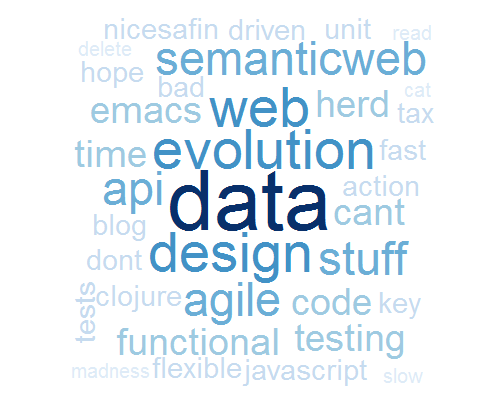
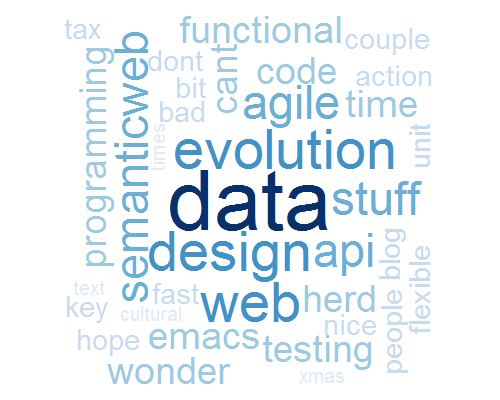
add couple of old blog posts

Changed region(s): [[0.12, 0.03, 0.87, 0.96]]

diff --git a/_includes/cloud.html b/_includes/cloud.html
@@ -1,1 +1,1 @@
- &nbsp;&nbsp;<a href="/tags/R.html" title="Posts tagged R" style="font-size: 24.6px; line-height:24.6px">R</a> &nbsp;&nbsp;<a href="/tags/SQL.html" title="Posts tagged SQL" style="font-size: 17.4px; line-height:17.4px">SQL</a> &nbsp;&nbsp;<a href="/tags/abtesting.html" title="Posts tagged abtesting" style="font-size: 17.4px; line-height:17.4px">abtesting</a> &nbsp;&nbsp;<a href="/tags/automation.html" title="Posts tagged automation" style="font-size: 25.799999999999997px; line-height:25.799999999999997px">automation</a> &nbsp;&nbsp;<a href="/tags/clojure.html" title="Posts tagged clojure" style="font-size: 19.8px; line-height:19.8px">clojure</a> &nbsp;&nbsp;<a href="/tags/dashboard.html" title="Posts tagged dashboard" style="font-size: 16.2px; line-height:16.2px">dashboard</a> &nbsp;&nbsp;<a href="/tags/data.html" title="Posts tagged data" style="font-size: 28.2px; line-height:28.2px">data</a> &nbsp;&nbsp;<a href="/tags/emacs.html" title="Posts tagged emacs" style="font-size: 18.6px; line-height:18.6px">emacs</a> &nbsp;&nbsp;<a href="/tags/health.html" title="Posts tagged health" style="font-size: 16.2px; line-height:16.2px">health</a> &nbsp;&nbsp;<a href="/tags/idea.html" title="Posts tagged idea" style="font-size: 19.8px; line-height:19.8px">idea</a> &nbsp;&nbsp;<a href="/tags/javascript.html" title="Posts tagged javascript" style="font-size: 18.6px; line-height:18.6px">javascript</a> &nbsp;&nbsp;<a href="/tags/keyboard.html" title="Posts tagged keyboard" style="font-size: 16.2px; line-height:16.2px">keyboard</a> &nbsp;&nbsp;<a href="/tags/machinelearning.html" title="Posts tagged machinelearning" style="font-size: 21.0px; line-height:21.0px">machinelearning</a> &nbsp;&nbsp;<a href="/tags/montecarlo.html" title="Posts tagged montecarlo" style="font-size: 17.4px; line-height:17.4px">montecarlo</a> &nbsp;&nbsp;<a href="/tags/productivity.html" title="Posts tagged productivity" style="font-size: 18.6px; line-height:18.6px">productivity</a> &nbsp;&nbsp;<a href="/tags/ruby.html" title="Posts tagged ruby" style="font-size: 24.6px; line-height:24.6px">ruby</a> &nbsp;&nbsp;<a href="/tags/semanticweb.html" title="Posts tagged semanticweb" style="font-size: 17.4px; line-height:17.4px">semanticweb</a> &nbsp;&nbsp;<a href="/tags/statistics.html" title="Posts tagged statistics" style="font-size: 29.4px; line-height:29.4px">statistics</a> &nbsp;&nbsp;<a href="/tags/tools.html" title="Posts tagged tools" style="font-size: 16.2px; line-height:16.2px">tools</a> &nbsp;&nbsp;<a href="/tags/visualization.html" title="Posts tagged visualization" style="font-size: 23.4px; line-height:23.4px">visualization</a> &nbsp;&nbsp;<a href="/tags/webcrawler.html" title="Posts tagged webcrawler" style="font-size: 17.4px; line-height:17.4px">webcrawler</a>
+ &nbsp;&nbsp;<a href="/tags/R.html" title="Posts tagged R" style="font-size: 24.6px; line-height:24.6px">R</a> &nbsp;&nbsp;<a href="/tags/SQL.html" title="Posts tagged SQL" style="font-size: 17.4px; line-height:17.4px">SQL</a> &nbsp;&nbsp;<a href="/tags/abtesting.html" title="Posts tagged abtesting" style="font-size: 17.4px; line-height:17.4px">abtesting</a> &nbsp;&nbsp;<a href="/tags/automation.html" title="Posts tagged automation" style="font-size: 28.2px; line-height:28.2px">automation</a> &nbsp;&nbsp;<a href="/tags/clojure.html" title="Posts tagged clojure" style="font-size: 19.8px; line-height:19.8px">clojure</a> &nbsp;&nbsp;<a href="/tags/dashboard.html" title="Posts tagged dashboard" style="font-size: 16.2px; line-height:16.2px">dashboard</a> &nbsp;&nbsp;<a href="/tags/data.html" title="Posts tagged data" style="font-size: 28.2px; line-height:28.2px">data</a> &nbsp;&nbsp;<a href="/tags/emacs.html" title="Posts tagged emacs" style="font-size: 18.6px; line-height:18.6px">emacs</a> &nbsp;&nbsp;<a href="/tags/health.html" title="Posts tagged health" style="font-size: 16.2px; line-height:16.2px">health</a> &nbsp;&nbsp;<a href="/tags/idea.html" title="Posts tagged idea" style="font-size: 19.8px; line-height:19.8px">idea</a> &nbsp;&nbsp;<a href="/tags/javascript.html" title="Posts tagged javascript" style="font-size: 18.6px; line-height:18.6px">javascript</a> &nbsp;&nbsp;<a href="/tags/keyboard.html" title="Posts tagged keyboard" style="font-size: 16.2px; line-height:16.2px">keyboard</a> &nbsp;&nbsp;<a href="/tags/machinelearning.html" title="Posts tagged machinelearning" style="font-size: 21.0px; line-height:21.0px">machinelearning</a> &nbsp;&nbsp;<a href="/tags/montecarlo.html" title="Posts tagged montecarlo" style="font-size: 17.4px; line-height:17.4px">montecarlo</a> &nbsp;&nbsp;<a href="/tags/productivity.html" title="Posts tagged productivity" style="font-size: 18.6px; line-height:18.6px">productivity</a> &nbsp;&nbsp;<a href="/tags/ruby.html" title="Posts tagged ruby" style="font-size: 27.0px; line-height:27.0px">ruby</a> &nbsp;&nbsp;<a href="/tags/semanticweb.html" title="Posts tagged semanticweb" style="font-size: 17.4px; line-height:17.4px">semanticweb</a> &nbsp;&nbsp;<a href="/tags/statistics.html" title="Posts tagged statistics" style="font-size: 29.4px; line-height:29.4px">statistics</a> &nbsp;&nbsp;<a href="/tags/tools.html" title="Posts tagged tools" style="font-size: 16.2px; line-height:16.2px">tools</a> &nbsp;&nbsp;<a href="/tags/visualization.html" title="Posts tagged visualization" style="font-size: 23.4px; line-height:23.4px">visualization</a> &nbsp;&nbsp;<a href="/tags/webcrawler.html" title="Posts tagged webcrawler" style="font-size: 17.4px; line-height:17.4px">webcrawler</a>

diff --git a/tags/automation.html b/tags/automation.html
@@ -5,6 +5,16 @@ title: Tag "automation"
 
 <div id="category-list"><ul class="posts">
         <li>
+          <a href="/2008/06/27/ebay-misspell-search.html">ebay misspells search</a>
+          <span id="post-date" style="font-size: 90%">27 Jun 2008</span>
+       </li>
+
+        <li>
+          <a href="/2008/07/31/ebay-stock-price-alert.html">ebay Stock price Alert</a>
+          <span id="post-date" style="font-size: 90%">31 Jul 2008</span>
+       </li>
+
+        <li>
           <a href="/2008/11/25/ruby-foto-organizer.html">Photo organizer</a>
           <span id="post-date" style="font-size: 90%">25 Nov 2008</span>
        </li>

diff --git a/tags/ruby.html b/tags/ruby.html
@@ -10,6 +10,16 @@ title: Tag "ruby"
        </li>
 
         <li>
+          <a href="/2008/06/27/ebay-misspell-search.html">ebay misspells search</a>
+          <span id="post-date" style="font-size: 90%">27 Jun 2008</span>
+       </li>
+
+        <li>
+          <a href="/2008/07/31/ebay-stock-price-alert.html">ebay Stock price Alert</a>
+          <span id="post-date" style="font-size: 90%">31 Jul 2008</span>
+       </li>
+
+        <li>
           <a href="/2008/11/25/ruby-foto-organizer.html">Photo organizer</a>
           <span id="post-date" style="font-size: 90%">25 Nov 2008</span>
        </li>

diff --git a/_posts/2008-06-27-ebay-misspell-search.md b/_posts/2008-06-27-ebay-misspell-search.md
@@ -1,0 +1,154 @@
+--- 
+layout: post
+title: ebay misspells search
+category: code
+tags:
+  - automation
+  - ruby
+intro: "a script that given an ebay search term, creates misspells alternatives and then executes an (ebay)search. becuase sometimes great bargains can be found from misspells items"
+---
+
+A small ruby script that does searches in ebay. Is able to:
+
+ - introducing some misspells in order to find those misspelled items that might be a great bargain(because nobody else is able to find them)
+ - abble to search in more than one ebay store.
+
+Prints out to console the search results. Of course because is in ruby, is easy to modify and play around :)
+
+Quick and dirty pulled together, but posting here in case someone else finds it useful.
+
+### Use like so:
+
+for multiple keyword search:
+
+	> ruby ebayfind.rb "Ibanez guitar"
+
+for single keyword search:
+
+	> ruby ebayfind.rb Ibanez
+
+## Code:
+
+	require 'net/http'
+	require 'rexml/document'
+	require 'active_support'
+
+
+	class Misspell
+
+	 def self.a(a_text="word", options=["skip_letter", "double_letters",
+	   "reverse_letters","skip_spaces","missed_key","inserted_key" ])
+
+	    ## Sets up the params    params = Hash.new
+	   params["user_input"] = a_text
+	   options.each do |opt|
+	     params[opt] = opt
+	   end
+
+	    #executes a call    
+	    res = Net::HTTP.post_form(URI.parse('http://tools.seobook.com/spelling/keywords-typos.cgi'), params)
+
+	    #cleans and formats results    
+	    res.body.gsub("\n", ',').scan(/<textarea rows[^>]*(.*)<\/textarea>/).flatten.to_s.gsub(">", "").split(',')
+	 end
+	end
+
+
+
+	if ARGV.length == 0
+	 puts "#{$0}: You must enter at least one argument."
+	 exit
+	end
+
+	search_str = [ARGV[0]]
+
+	puts "Finding: #{search_str}"
+	output = ""
+
+	puts "Creating the misspells..."
+	search_str << Misspell.a(search_str, ["skip_letter", "double_letters", "reverse_letters","skip_spaces","missed_key","inserted_key" ])
+	search_str.flatten!
+	puts "Search item with added misspells: #{search_str.join(",")}"
+
+	#ebay_stores = {"1"=>"US", "3"=>"GB", "77"=>"DE", "71"=>"FR", "186"=>"ES", "146"=>"NL"}
+	ebay_stores = {"3"=>"GB", "77"=>"DE", "71"=>"FR", "186"=>"ES", "146"=>"NL"}
+
+	#Iterate through each Ebay 
+	ebay_stores.each_key do |siteid|
+
+	  # Iterate through each  
+	  search_str.each do |query_string|
+
+	    # Put together an eBay parameter string    
+	    ebay_params = {
+	     'callname' =>'FindItemsAdvanced',
+	     'appid'                       =>'TODO:_YOUR_OWN_EBAY_API_ID',
+	     'version'                     =>'553',
+	     'responseencoding'            =>'XML',
+	     'siteid'                      =>siteid,
+	     'MessageID                   '=>'',
+	     'BidCountMax                 '=>'',
+	     'BidCountMin                 '=>'',
+	     'CategoryHistogramMaxChildren'=>'',
+	     'CategoryHistogramMaxParents '=>'',
+	     'CategoryID                  '=>'',
+	     'CharityID                   '=>'',
+	     'Condition                   '=>'',
+	     'Currency                    '=>'',
+	     'DescriptionSearch           '=>'',
+	     'EndTimeFrom                 '=>'',
+	     'EndTimeTo                   '=>'',
+	     'ExcludeFlag                 '=>'',
+	     'FeedbackScoreMax            '=>'',
+	     'FeedbackScoreMin            '=>'',
+	     'GroupMaxEntries             '=>'',
+	     'GroupsMax                   '=>'',
+	     'IncludeSelector             '=>'',
+	     'ItemsAvailableTo            '=>'',
+	     'ItemsLocatedIn              '=>'',
+	     'ItemSort                    '=>'',
+	     'ItemType                    '=>'AllItemTypes',
+	     'MaxDistance                 '=>'',
+	     'MaxEntries                  '=>'',
+	     'ModTimeFrom                 '=>'',
+	     'PageNumber                  '=>'',
+	     'PaymentMethod               '=>'PayPal',
+	     'PostalCode                  '=>'',
+	     'PreferredLocation           '=>'',
+	     'PriceMax                    '=>'',
+	     'PriceMin                    '=>'',
+	     'ProductID                   '=>'',
+	     'Quantity                    '=>'',
+	     'QuantityOperator            '=>'',
+	     'QueryKeywords               '=> (query_string.gsub(' ', '%20')),
+	     'SearchFlag                  '=>'',
+	     'SellerBusinessType          '=>'',
+	     'SellerID                    '=>'',
+	     'SellerIDExclude             '=>'',
+	     'SortOrder                   '=>'',
+	     'StoreName                   '=>'',
+	     'StoreSearch                 '=>''
+	   }.map { |key,value| "#{key.strip}=#{value}" unless value.empty? }.join("&").squeeze('&')
+
+	    # Ask eBay what it knows about our query_string    
+	    ebay_response = Net::HTTP.get_response('open.api.ebay.com', '/shopping?' << ebay_params)
+
+	    xml = REXML::Document.new(ebay_response.body)
+
+	    # Get basic information    
+	    response3 =  Hash.from_xml(xml.to_s)
+
+	   xml.root.elements.each("/FindItemsAdvancedResponse/SearchResult/ItemArray/Item") do |element|
+	     item =  Hash.from_xml(element.to_s)
+	     puts ""
+	     puts ">> Searching for: #{query_string}, in #{bay_stores[siteid]}, got #{response3["FindItemsAdvancedResponse"]["TotalItems"]} results"
+	     puts item['Item']['Title']
+	     puts item['Item']['EndTime']
+	     puts item['Item']['ConvertedCurrentPrice']
+	     puts item['Item']['GalleryURL']
+	     puts item['Item']['ListingType']
+	     puts item['Item']['Condition']
+	     puts item['Item']['ViewItemURLForNaturalSearch']
+	   end
+	 end
+	end

diff --git a/_posts/2008-07-31-ebay-stock-price-alert.md b/_posts/2008-07-31-ebay-stock-price-alert.md
@@ -1,0 +1,69 @@
+--- 
+layout: post
+title: ebay Stock price Alert
+category: code
+tags:
+  - automation
+  - ruby
+intro: "Waiting for a stock price to rise to a certain value to sell it? or waiting for the price to drop to a certain value to buy it? But don't want to be checking it every day? Here's a little automation that raises alerts to email inbox."
+---
+
+Waiting for a stock price to rise to a certain value to sell it? or waiting for the price to drop to a certain value to buy it? But don't want to be checking it every day? Here's a little automation that raises alerts to email inbox.
+
+This script will send you an email when stock price is outside the defined thresholds.
+
+Set your own thresholds changing the "low" & "high" values.
+Set your preferred stock symbol changing "EBAY" to "GOOGLE" for example. Is easeally extendable to support several stock symbols. I can post a second script if there's enough demand.
+
+To set it up running every day, use windows Task Scheduler or CRON for linux and mac machines.
+
+
+## Code:
+
+Requires the ruby mailfactory gem, "gem install mailfactory".
+
+	 require 'net/http'
+	 require 'net/smtp'
+	 require 'mailfactory'
+
+	 def get_stock_quote(symbol)
+
+	    host = "finance.google.com"
+	    link = "/finance?q="+ symbol.upcase
+
+	    begin
+
+	      # Create a new HTTP connection
+	      httpCon = Net::HTTP.new( host, 80 )
+
+	      # Perform a HEAD request
+	      resp = httpCon.get( link, nil )
+
+	      value = (resp.body.scan /class="pr"[^>]*([^<]*)/).flatten.to_s.gsub(">", "").to_f
+
+	      print " current #{symbol} stock price is " + value.to_s + " (from finance.google.com)\n"
+	      return value
+	    end
+
+	 end
+
+
+	 def send_stock_alert(subject="Ebay Stock Alert", message="Value Alert")
+
+	    begin
+	      mail = MailFactory.new()
+	      mail.to = 'myself@gmail.com'
+	      mail.from = "ebaystock@alerts.com"
+	      mail.subject = subject
+	      mail.html = message
+
+	      Net::SMTP.start('yourmailserver') do |smtp|
+	        smtp.send_message(mail.to_s(), mail.from, mail.to )
+	      end
+
+	    rescue StandardError => e
+	      puts "Error sending mail"
+	      raise e
+	    end
+
+	 end

diff --git a/pages/quotes.md b/pages/quotes.md
@@ -9,6 +9,22 @@ sidebar: "<img src='http://al3xandr3.github.com/img/quotes_frequency.png' alt='q
 
 ## 2012
 
+<blockquote data-day="2012-10-31">
+an economic like KPI for restaurants and chefs: by how much you multiply the value of ingredients. You sell a 30€ meal, whose ingredients cost 10€, KPI=3
+</blockquote>
+
+<blockquote data-day="2012-10-09">
+Ask good questions #analysts
+</blockquote>
+
+<blockquote data-day="2012-10-09">
+a cold earl grey tea with lemon reminds me of the ice tea soft drink. without the sugar and much healthier im betting
+</blockquote>
+
+<blockquote data-day="2012-10-09">
+wonder if music reveals personality traits, or is entirely cultural, likely is a bit of both
+</blockquote>
+
 <blockquote data-day="2012-10-03">
 everything is temporary - is just a matter of time that it changes
 </blockquote>
